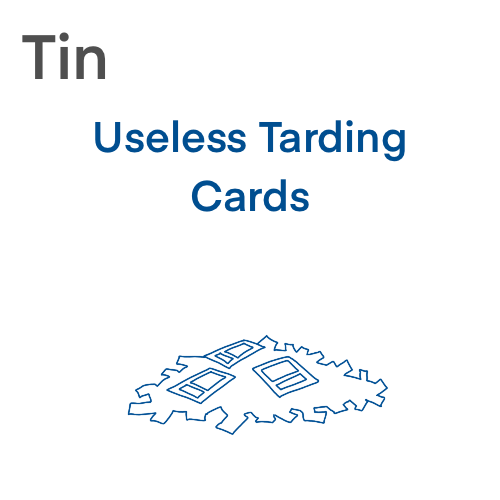
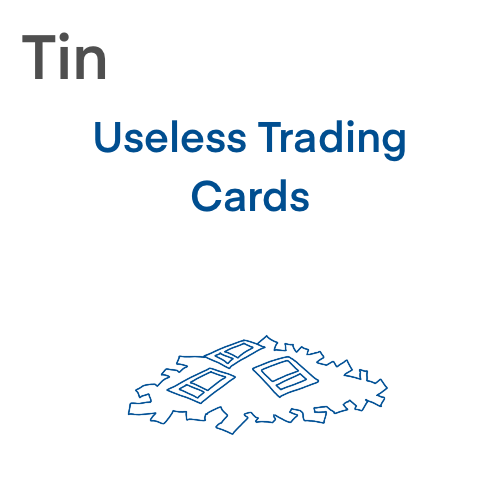
Fixing Typos
Corrected a few typos in two descriptions and one of the images.

Changed region(s): [[0.54, 0.24, 0.78, 0.33], [0.24, 0.24, 0.45, 0.3]]

diff --git a/gachaMagic.js b/gachaMagic.js
@@ -104,10 +104,10 @@ const bronzeRank = [
 
 const tinRank = [
   ['Images_Icons/Icon_Animal.png', 'Images_Full/Tin_Animal.png', 'It has no monetary value, but its nostalgic value more than makes up for it.', 32],
-  ['Images_Icons/Icon_Cards.png', 'Images_Full/Tin_Cards.png', 'Essentially a pile of proto-NFTs, someone payed a lot to get these but got little return on them.', 33],
+  ['Images_Icons/Icon_Cards.png', 'Images_Full/Tin_Cards.png', 'Essentially a pile of proto-NFTs, someone paid a lot to get these but got little return on them.', 33],
   ['Images_Icons/Icon_Empty.png', 'Images_Full/Tin_Empty.png', 'There was a character in here, but someone else already opened it. Was it a rare character? You\'ll never know now!', 34],
   ['Images_Icons/Icon_Pillow.png', 'Images_Full/Tin_Pillow.png', 'Normally people put a cover on these to represent a character. Since this one doesn\'t have a cover, it\'s just an unimportant pillow.', 35],
-  ['Images_Icons/Icon_Recycle.png', 'Images_Full/Tin_Recycle.png', 'You could get a couple of dollars at most for recylcing these, but as is they\'re not very useful.', 36]
+  ['Images_Icons/Icon_Recycle.png', 'Images_Full/Tin_Recycle.png', 'You could get a couple of dollars at most for recycling these, but as is they\'re not very useful.', 36]
 ]
 
 function updateCharacterCount(input) {
